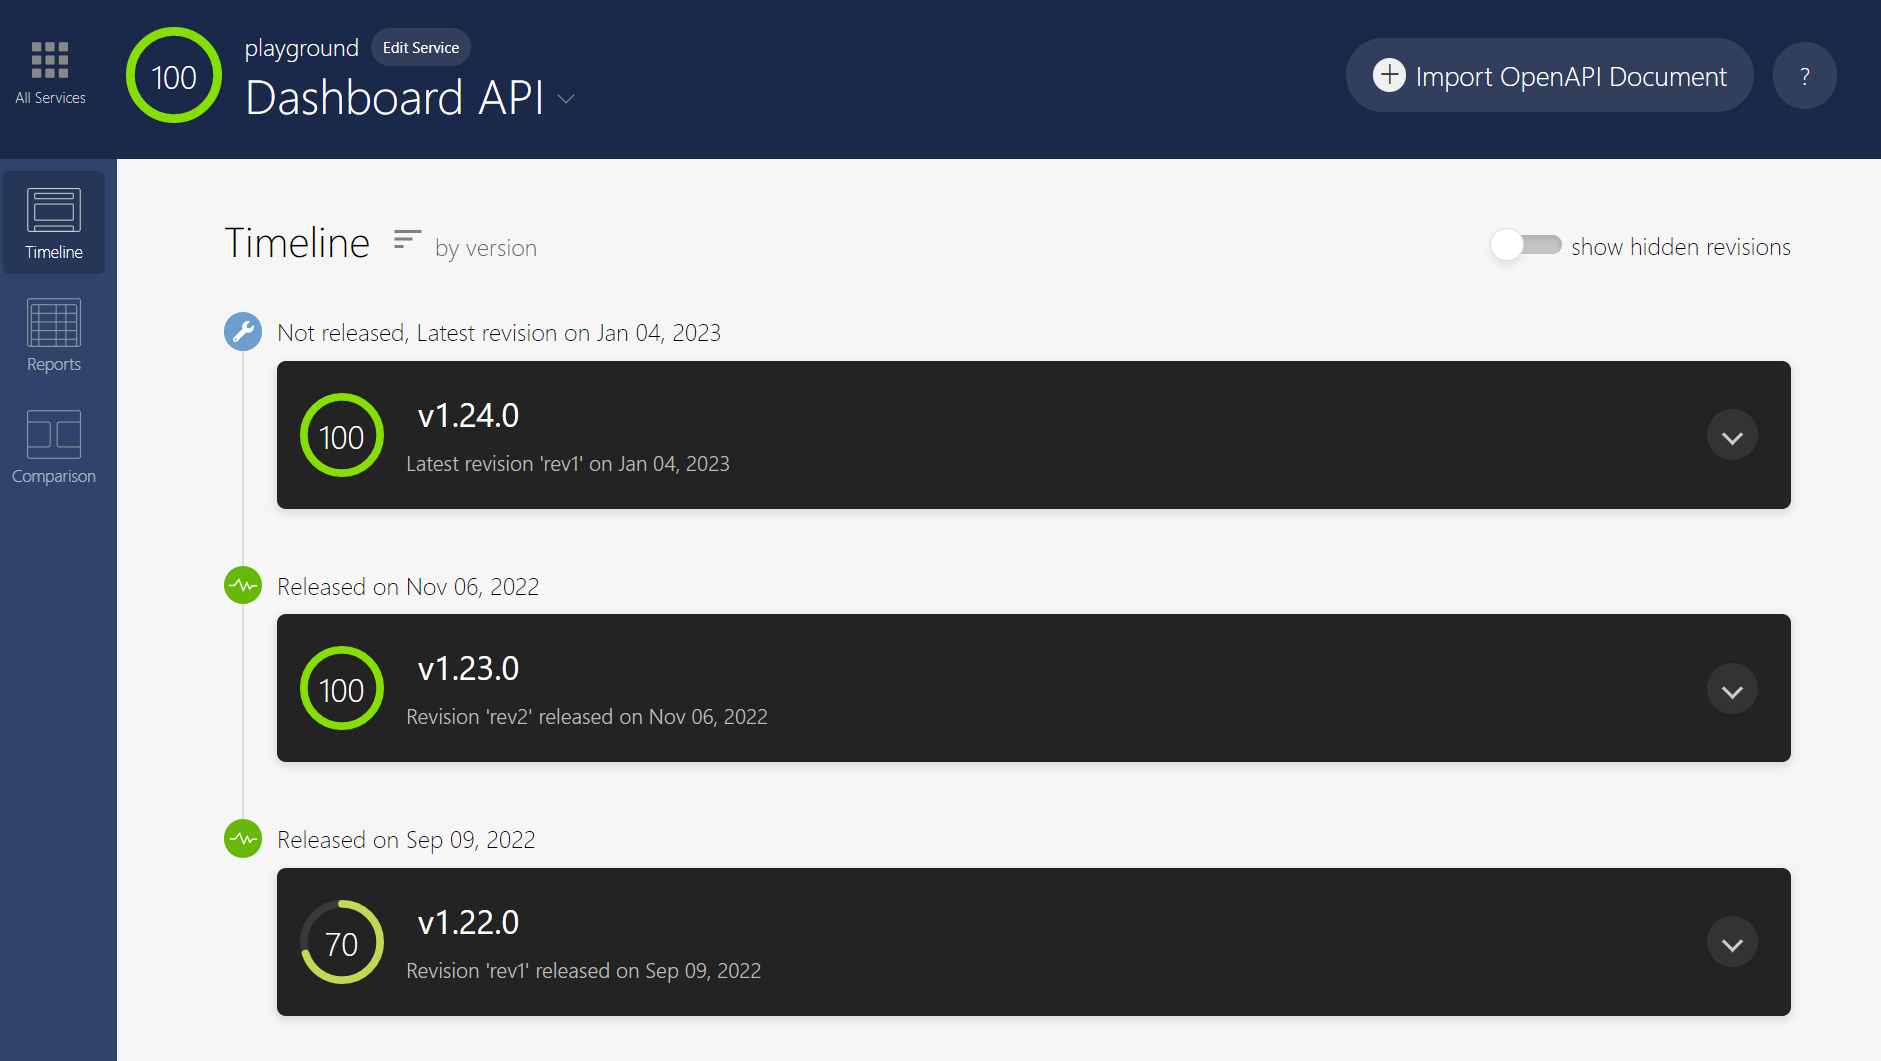
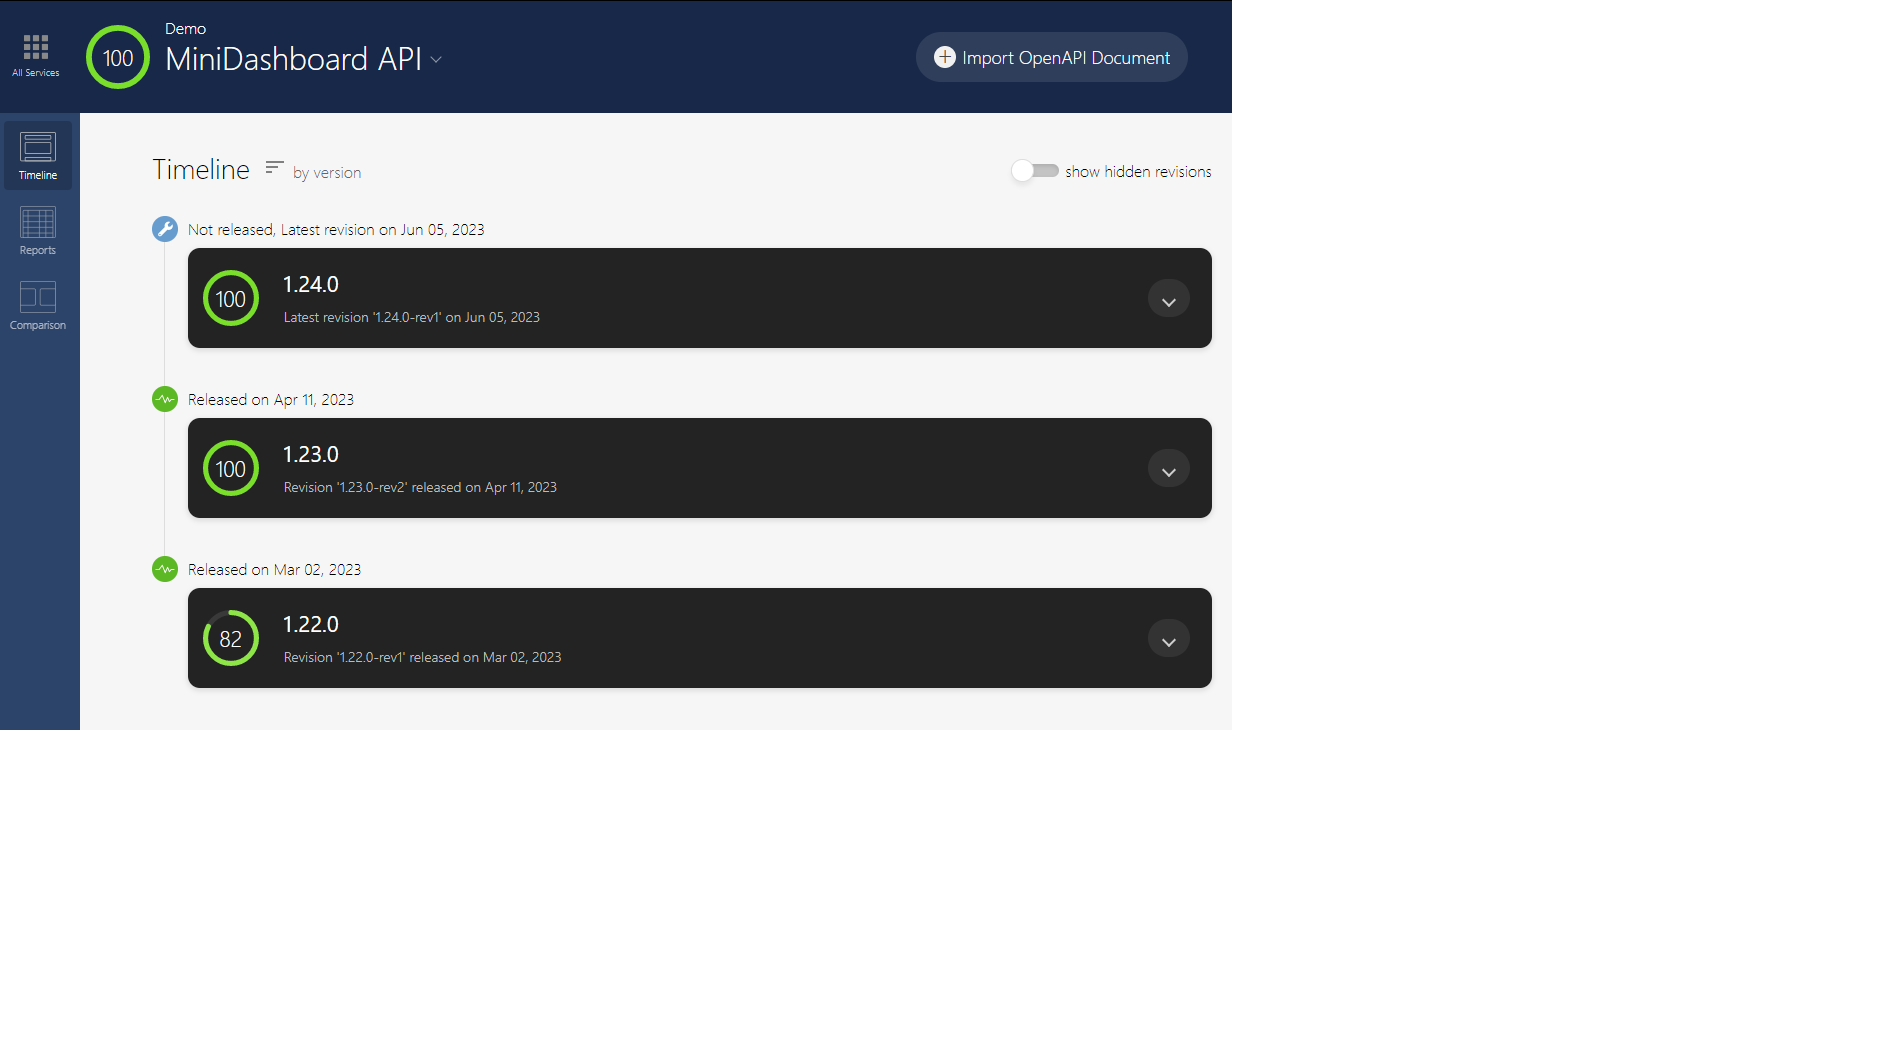
updated timelines - dates to reflect the Cisco Live event

diff --git a/CHANGELOG.md b/CHANGELOG.md
@@ -1,23 +1,23 @@
 # API Changelog
 
-1.24.0-rev1: January 4th, 2023
+1.24.0-rev1: June 5th, 2023
 - Score of 100%
 - Support for updating an organization (PUT)
 - Added attribute licensing as required for POST
 - API Insights: detects breaking change
 
-1.23.0-rev2: November 6th, 2022
+1.23.0-rev2: April 11th, 2023
 - score of 100%
 - contract: 100%, completed specifying errors
 - documentation: 100%, completed specifying examples
 
-1.23.0-rev1: October 7th, 2022
-- Score of 86
+1.23.0-rev1: April 4th, 2023
+- Score of 86%
 - inclusive: 100; changed whitelist to allowlist
 - contract: 94; schema added but missing errors
 - documentation: 50; descriptions added but missing some examples
 
-1.22.0-GA: September 9th, 2022
+1.22.0-GA: March 2nd, 2023
 - OpenAPI document provided per request
-- Score of 70
+- Score of 70%
 - gaps in completeness for contract, documentation and offensive terms in documentation
